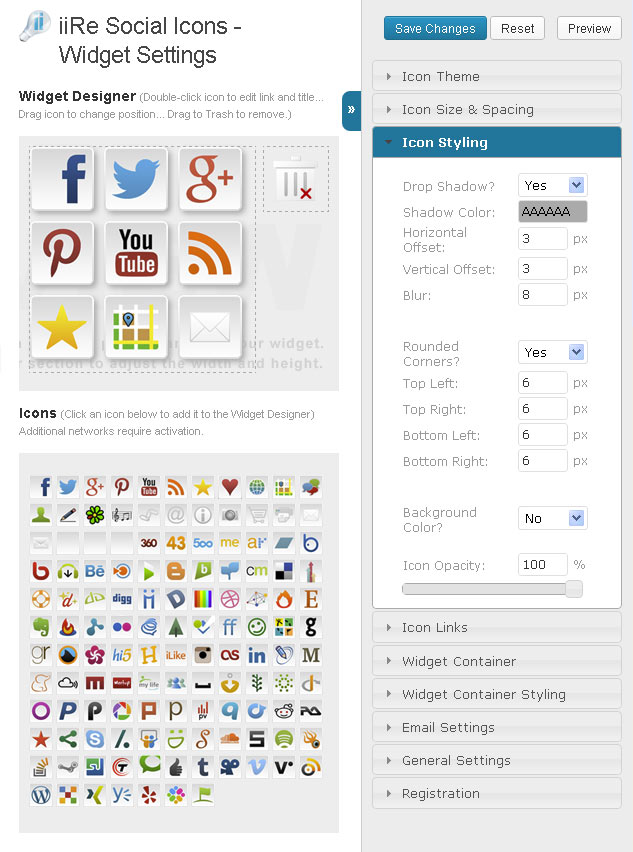
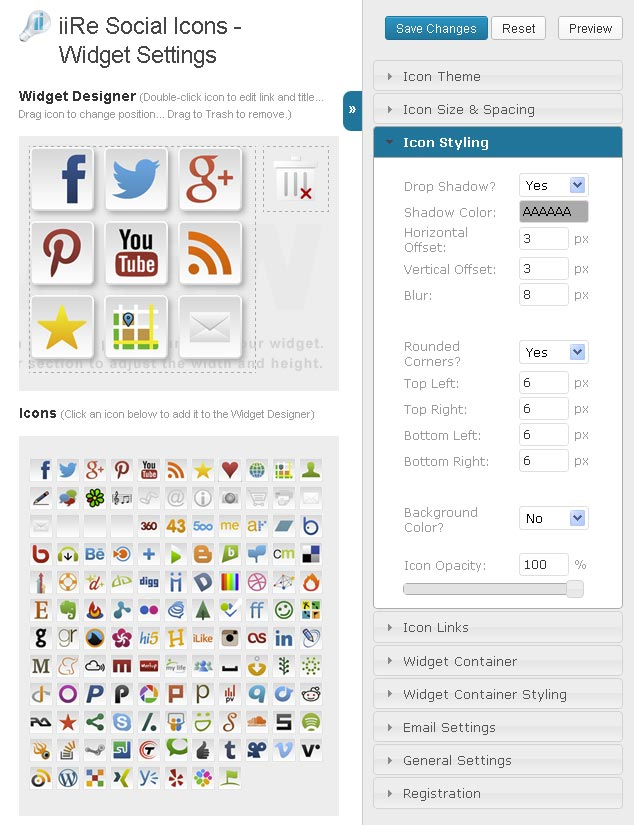
1.5.1 Bug fixes and updates
git-svn-id: https://plugins.svn.wordpress.org/iire-social-icons/trunk@664255 b8457f37-d9ea-0310-8a92-e5e31aec5664

diff --git a/includes/admin_iire_social_styles.css b/includes/admin_iire_social_styles.css
@@ -1,4 +1,4 @@
-/* Admin CSS - 02-04-2013 */
+/* Admin CSS - 02-06-2013 */
 
 /* Admin Settings Page */
 div.settings { display:block; position:relative; width:950px; height:1100px; border:0px solid #E2EAED; background:#FFFFFF; margin: 0px 0 0 10px;}

diff --git a/includes/admin_iire_social_shortcode.js b/includes/admin_iire_social_shortcode.js
@@ -1,4 +1,4 @@
-// IIRE SOCIAL SHORTCODE (Demo Version) - 02-04-2013
+// IIRE SOCIAL SHORTCODE (Demo Version) - 02-06-2013
 
 jQuery(document).ready(function() {
 	var plugin_path = jQuery("input#plugin_path").val(); 

diff --git a/includes/admin_iire_social_widget.js b/includes/admin_iire_social_widget.js
@@ -1,4 +1,4 @@
-// IIRE SOCIAL WIDGET (Demo Version) - 02-04-2013
+// IIRE SOCIAL WIDGET (Demo Version) - 02-06-2013
 
 jQuery(document).ready(function() {
 	var plugin_path = jQuery("input#plugin_path").val(); 

diff --git a/includes/admin_colorpicker.js b/includes/admin_colorpicker.js
@@ -1,4 +1,4 @@
-// Modified JS Color Picker - 02-04-2013
+// Modified JS Color Picker - 02-06-2013
 
 var jscolor = {
 	dir : '../wp-content/plugins/iire-social-icons/includes/images/',	

diff --git a/includes/iire_social_functions.js b/includes/iire_social_functions.js
@@ -1,4 +1,4 @@
-// IIRE SOCIAL (Demo Version) - 02-04-2013
+// IIRE SOCIAL (Demo Version) - 02-06-2013
 
 jQuery(document).ready(function() {
 

diff --git a/includes/admin_iire_social_shortcode.php b/includes/admin_iire_social_shortcode.php
@@ -1,5 +1,5 @@
 <?php
-// Admin Page for Social Icons Shortcode - (Demo Version) - 02-04-2013
+// Admin Page for Social Icons Shortcode - (Demo Version) - 02-06-2013
 
 function iire_admin_social_shortcode() {
 	global $wpdb;
@@ -655,7 +655,8 @@ function iire_admin_social_shortcode() {
 			<li class="choose trial <?php echo $th; ?>" id="iire-bebo" alt="http://bebo.com" title="Bebo" lang=""></li>
 			<li class="choose trial <?php echo $th; ?>" id="iire-beatport" alt="http://beatport.com" title="Beatport" lang=""></li>			
 			<li class="choose trial <?php echo $th; ?>" id="iire-behance" alt="http://behance.net" title="Behance" lang=""></li>
-			<li class="choose trial <?php echo $th; ?>" id="iire-blinklist" alt="http://blinklist.com" title="Blinklist" lang=""></li>				
+			<li class="choose trial <?php echo $th; ?>" id="iire-blinklist" alt="http://blinklist.com" title="Blinklist" lang=""></li>
+			<li class="choose trial <?php echo $th; ?>" id="iire-bloglovin" alt="http://bloglovin.com" title="Blog Lovin" lang=""></li>								
 			<li class="choose trial <?php echo $th; ?>" id="iire-blogmarks" alt="http://blogmarks.com" title="Blog Marks" lang=""></li>						
 			<li class="choose trial <?php echo $th; ?>" id="iire-blogger" alt="http://blogger.com" title="Blogger" lang=""></li>
 			<li class="choose trial <?php echo $th; ?>" id="iire-brightkite" alt="http://limbo.com" title="Brightkite" lang=""></li>			

diff --git a/includes/admin_iire_social_widget.php b/includes/admin_iire_social_widget.php
@@ -1,5 +1,5 @@
 <?php
-// Admin Page for Social Icons Widget - (Demo Version) - 02-04-2013
+// Admin Page for Social Icons Widget - (Demo Version) - 02-06-2013
 
 function iire_admin_social_widget() {
 	global $wpdb;
@@ -637,7 +637,8 @@ function iire_admin_social_widget() {
 			<li class="choose trial <?php echo $th; ?>" id="iire-bebo" alt="http://bebo.com" title="Bebo" lang=""></li>
 			<li class="choose trial <?php echo $th; ?>" id="iire-beatport" alt="http://beatport.com" title="Beatport" lang=""></li>			
 			<li class="choose trial <?php echo $th; ?>" id="iire-behance" alt="http://behance.net" title="Behance" lang=""></li>
-			<li class="choose trial <?php echo $th; ?>" id="iire-blinklist" alt="http://blinklist.com" title="Blinklist" lang=""></li>				
+			<li class="choose trial <?php echo $th; ?>" id="iire-blinklist" alt="http://blinklist.com" title="Blinklist" lang=""></li>
+			<li class="choose trial <?php echo $th; ?>" id="iire-bloglovin" alt="http://bloglovin.com" title="Blog Lovin" lang=""></li>								
 			<li class="choose trial <?php echo $th; ?>" id="iire-blogmarks" alt="http://blogmarks.com" title="Blog Marks" lang=""></li>						
 			<li class="choose trial <?php echo $th; ?>" id="iire-blogger" alt="http://blogger.com" title="Blogger" lang=""></li>
 			<li class="choose trial <?php echo $th; ?>" id="iire-brightkite" alt="http://limbo.com" title="Brightkite" lang=""></li>			

diff --git a/index.php b/index.php
@@ -5,15 +5,15 @@ Plugin URI: http://iireproductions.com/web/website-development/wordpress-plugins
 Description: Add social media icons and links you your site with a customizable user interface. New themes, networks and functions in this MAJOR UPGRADE!
 Author: iiRe Productions
 Author URI: http://iireproductions.com/
-Version: 1.5.0
+Version: 1.5.1
 Tags: Social Media, Icons, Facebook, Twitter, Google Plus, Pinterest, YouTube, Email
 Copyright (C) 2012-2013 iiRe Productions
 */
 	
 // ASSIGN VERSION (DEMO)
 global $wpdb, $iire_social_version;
-$iire_version = "1.5.0";
-$last_modified = "02-04-2013";
+$iire_version = "1.5.1";
+$last_modified = "02-06-2013";
 	
 define ('IIRE_SOCIAL_FILE', __FILE__);
 define ('IIRE_SOCIAL_BASENAME', plugin_basename(__FILE__));

diff --git a/iire_social_install.php b/iire_social_install.php
@@ -1,8 +1,8 @@
 <?php
-// Social Icons Installation (Demo Version) - 02-04-2013
+// Social Icons Installation (Demo Version) - 02-06-2013
 
 global $iire_social_version;
-$iire_social_version = "1.5.0";
+$iire_social_version = "1.5.1";
 
 // INSTALL/CREATE TABLES
 function iire_social_install() {

diff --git a/includes/admin_iire_social_hooks.php b/includes/admin_iire_social_hooks.php
@@ -1,5 +1,5 @@
 <?php
-// Admin Social Hooks - (Demo Version) - 02-04-2013
+// Admin Social Hooks - (Demo Version) - 02-06-2013
 
 function iire_social_admin_pages() {
 	add_menu_page('iiRe Social Icons', 'iiRe Social Icons', 'administrator', 'iire_admin_social_home', 'iire_admin_social_home');

diff --git a/includes/iire_social_widget.php b/includes/iire_social_widget.php
@@ -1,5 +1,5 @@
 <?php
-// iiRe Social Icons Widget - (Demo Version) - 02-04-2013
+// iiRe Social Icons Widget - (Demo Version) - 02-06-2013
 class iiReSocialMedia extends WP_Widget {
 
   	function iiReSocialMedia()  {

diff --git a/includes/admin_iire_social_home.php b/includes/admin_iire_social_home.php
@@ -1,5 +1,5 @@
 <?php
-// Admin Social Home Landing Page - (Demo Version) - 02-04-2013
+// Admin Social Home Landing Page - (Demo Version) - 02-06-2013
 
 function iire_admin_social_home() {
 	global $wpdb;
